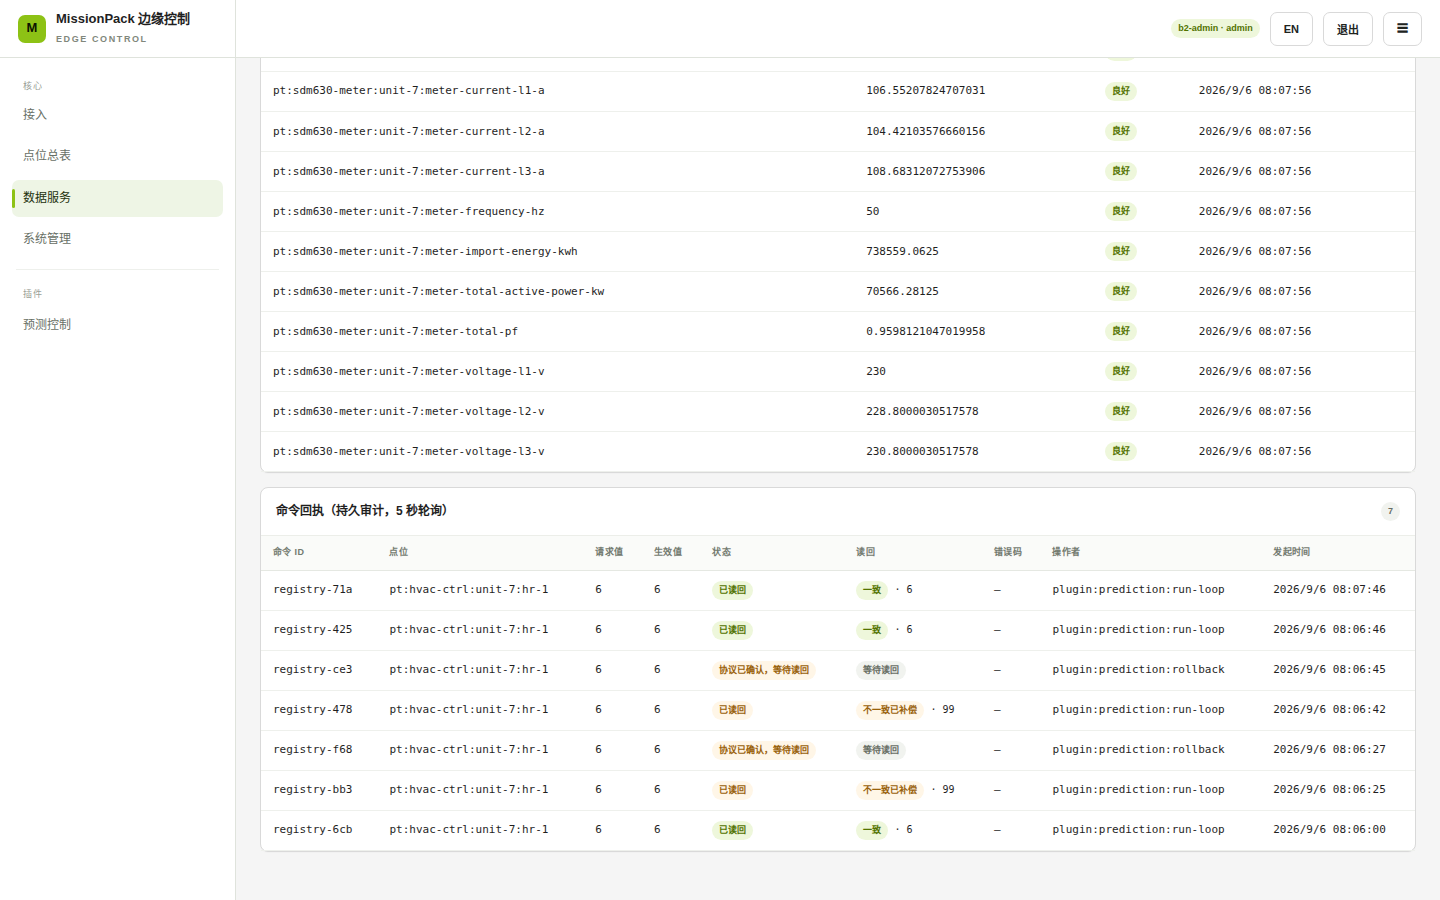
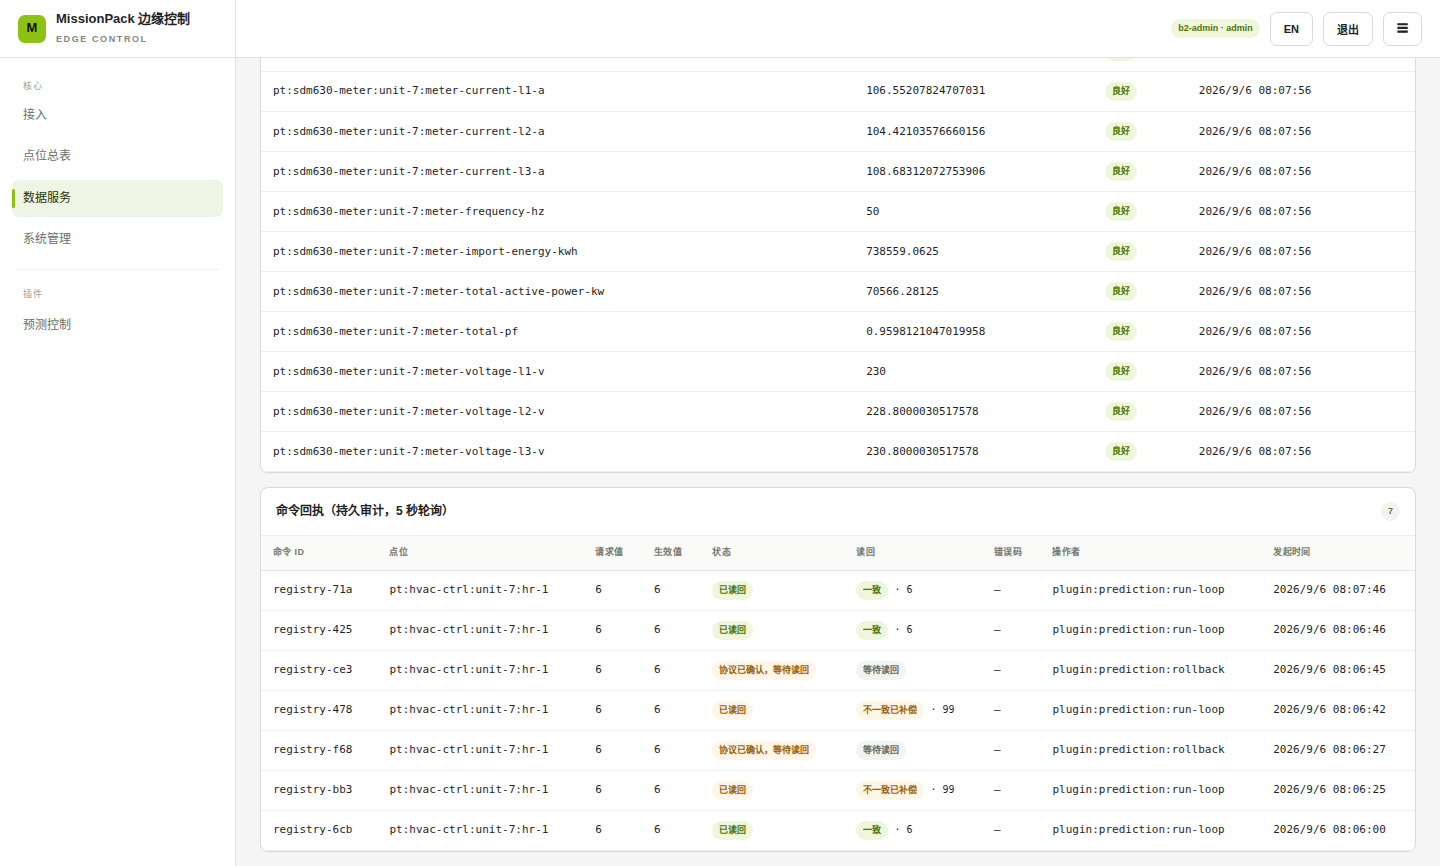
smart_hvac_control: crop two console screenshots to their content
The access page and the compensated-readback ledger carried empty canvas below
the table. Cropped. Gallery order and cover unchanged; ATTRIBUTION.md records
that the page still has no photograph of the equipment.

diff --git a/solutions/smart_hvac_control/gallery/ATTRIBUTION.md b/solutions/smart_hvac_control/gallery/ATTRIBUTION.md
@@ -146,3 +146,17 @@ and the original PNGs alongside the ones committed here) is in
 
 Transcript for these two (driver scripts, raw receipts, health payloads, pytest
 output) is in `Solution_HVAC_SmartControl/evaluation/runs/2026-09-06-b2-wire-e2e/`.
+
+## 2026-09-07
+
+`access-registration.png` (1440 × 900 → 1440 × 346) and
+`control-readback-compensated.png` (1440 × 900 → 1440 × 866) were cropped to
+their content. The other four screenshots already filled their frames and are
+byte-identical to before. The gallery order was already correct: console
+screenshots first, the architecture diagram last.
+
+## Missing: a photograph of the equipment
+
+There is no picture of the meter, the HVAC unit or the gateway in a plant room
+or a control cabinet. Every image on this page is a console screenshot, and the
+cover should be a photograph of the equipment on site. It has to be supplied.
